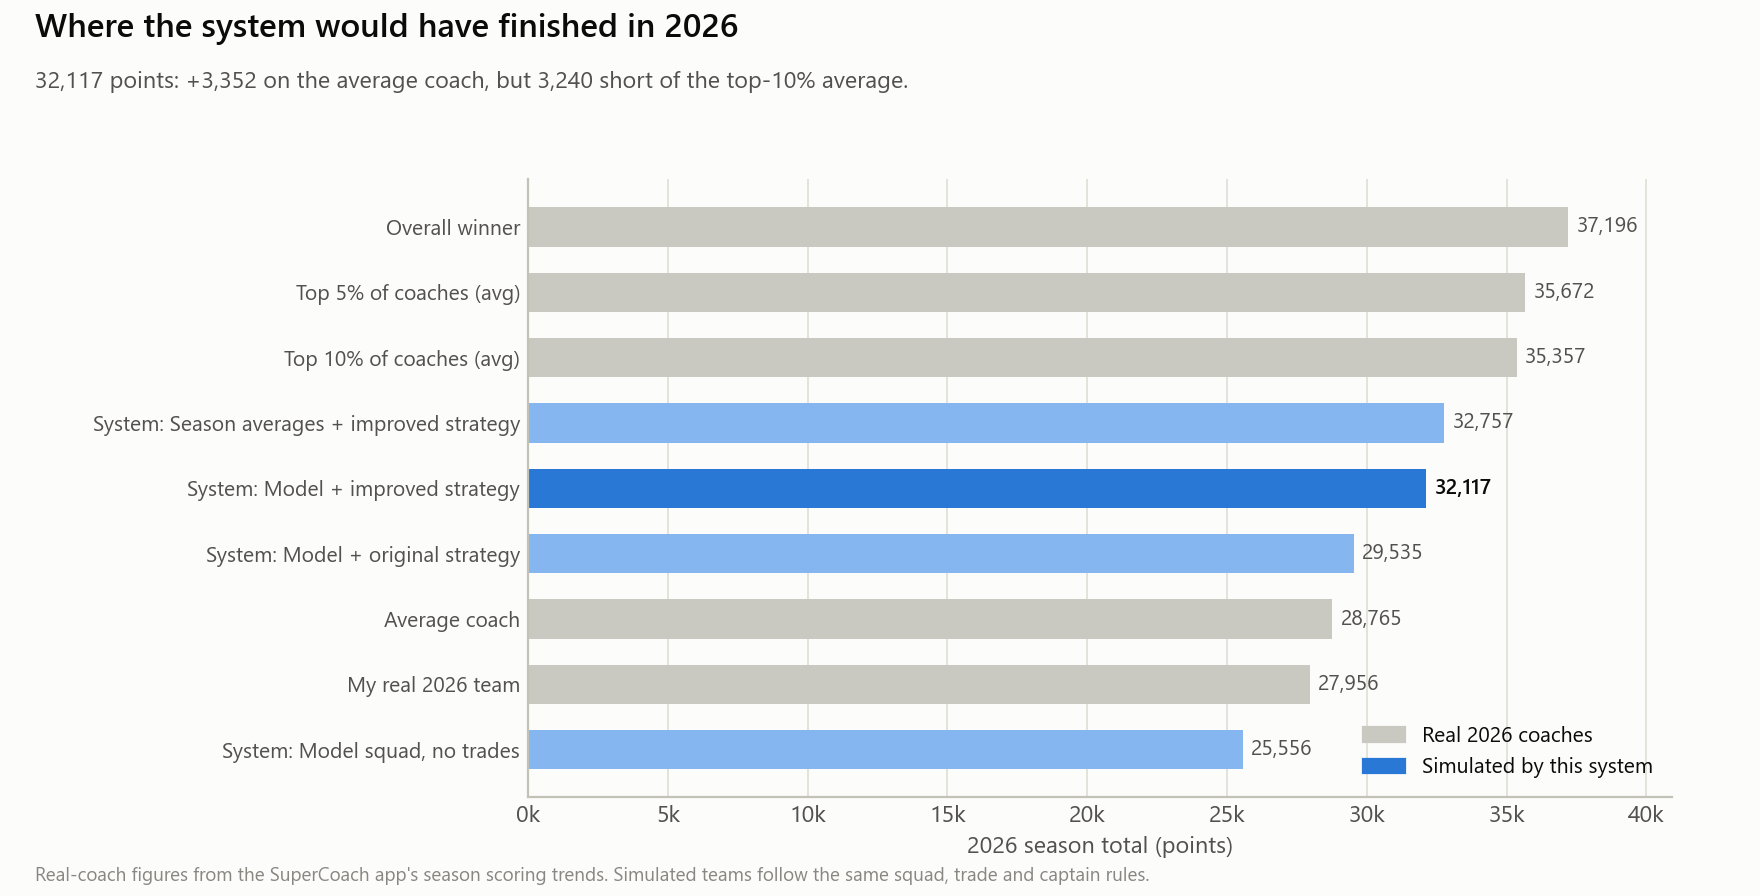
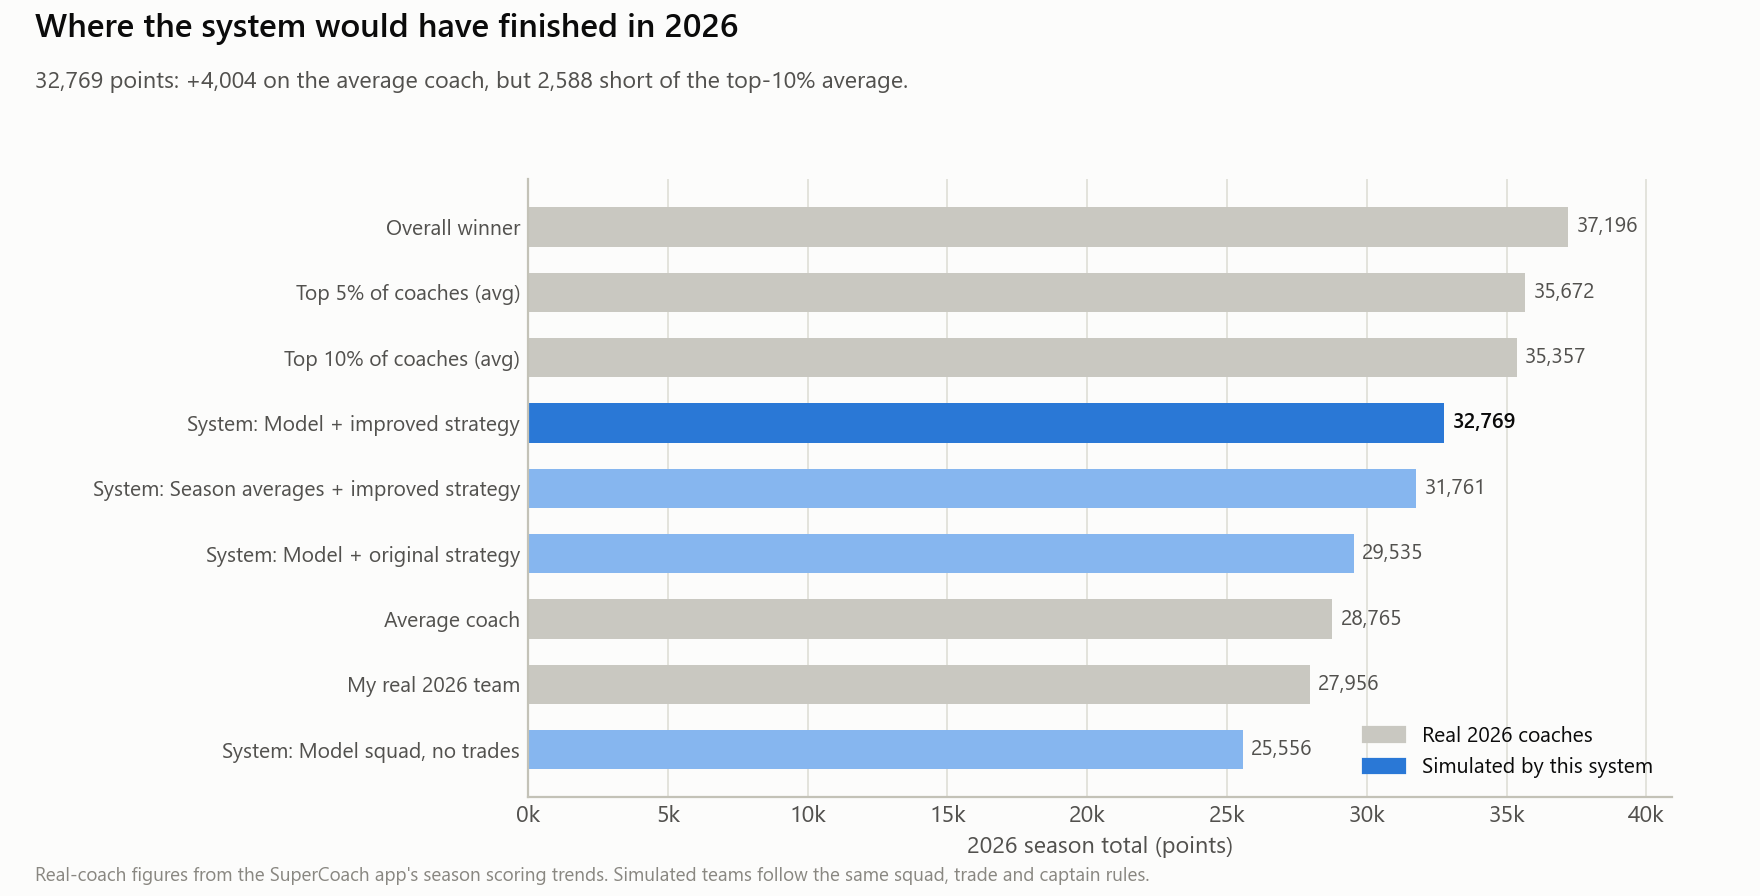
Pace trades so the strategy no longer runs out before the final round
The pace-scaled trade bar never bound (every trade found was worth 75-400
discounted points against a bar of 20-60), so the improved strategy spent
the maximum every round and was out of trades after round 23. It now keeps
1.5 trades (incl. boosts) in hand per round still to play.

The reserve was chosen on the 2024-25 development seasons and checked over
12 perturbed replays (+285 a season, 9/12 wins) before 2026 was re-run:
32,769 points (was 32,117), +4,004 on the average coach. README, charts and
summary updated; the extra look at 2026 is disclosed.

diff --git a/season_sim.py b/season_sim.py
@@ -17,13 +17,15 @@ then trade every week. The replay only uses what was known at the time.
 How trades are chosen is set by a Strategy:
 
   ORIGINAL   compares players one-for-one on predicted points over the next
-             3 rounds, assumes an unnamed player stays out, fixed trade bar.
+             3 rounds, assumes an unnamed player stays out, fixed trade bar,
+             spends trades as soon as they look worthwhile.
   IMPROVED   values the whole squad's best 18 (plus captain) in every
              remaining round, discounted, so depth for bye rounds counts;
              per-round predictions against each upcoming opponent; the
              availability model for who will be named; cash value of the
-             bank and of expected price rises; a trade bar that rises as
-             trades get scarce; no buying back a player just sold.
+             bank and of expected price rises; keeps 1.5 trades in hand per
+             round still to play, so it never runs dry before the last
+             round; no buying back a player just sold.
 
 Strategy parameters are tuned on a development season only (see
 season_review.py), never on the season being reported.
@@ -48,7 +50,6 @@ from scraper import load_fixtures
 log = logging.getLogger(__name__)
 
 LOOKAHEAD = 6            # rounds predicted individually against each opponent
-SEASON_PACE = TOTAL_TRADES / 26
 LINEUP_SLOTS = [(pos, n) for pos, n in ACTIVE_QUOTAS.items()] + [("FLEX", 1)]
 
 
@@ -61,15 +62,15 @@ class Strategy:
     lineup_aware: bool = True      # value the squad's best 18, not players one-for-one
     availability: bool = True      # use the availability model for future rounds
     cash_weight: float = 0.5       # share of cash assumed turned into points later
-    trade_bar: float = 20.0        # points a trade must add at the normal trade pace
-    pace_scaled: bool = True       # raise the bar when trades are scarce
+    trade_bar: float = 20.0        # points a trade must add to be worth making
+    reserve: float = 1.5           # trades (incl. boosts) kept in hand per round still to play
     cooldown: int = 3              # rounds before a sold player can be bought back
     candidates: int = 40           # trades scored in full per decision
 
 
 ORIGINAL = Strategy("Original strategy", horizon=3, discount=1.0, lineup_aware=False,
                     availability=False, cash_weight=0.0, trade_bar=15.0,
-                    pace_scaled=False, cooldown=0)
+                    reserve=0.0, cooldown=0)
 IMPROVED = Strategy("Improved strategy")
 
 
@@ -351,6 +352,14 @@ def initial_squad(inputs: SeasonInputs, strat: Strategy) -> tuple[list[str], flo
     return squad, SALARY_CAP - pick["total_price"]
 
 
+def spendable_trades(strat: Strategy, rnd: int, last_round: int, trades_used: int,
+                     boosts_left: int) -> int:
+    """Trades (and boosts) that can go this round while still keeping
+    `strat.reserve` in hand for every round after it."""
+    keep = int(np.ceil(strat.reserve * (last_round - rnd)))
+    return max(0, TOTAL_TRADES - trades_used + boosts_left - keep)
+
+
 def simulate_season(inputs: SeasonInputs, strat: Strategy, trading: bool = True,
                     label: str | None = None) -> SeasonResult:
     data = inputs.rounds
@@ -369,13 +378,12 @@ def simulate_season(inputs: SeasonInputs, strat: Strategy, trading: bool = True,
         if trading and rnd > 1:
             view = outlook_for(inputs, rnd, strat)
             limit = get_effective_trade_limit(rnd, trades_used)
-            pace = (TOTAL_TRADES - trades_used) / (max(data) - rnd + 1)
-            bar = strat.trade_bar * (min(3.0, SEASON_PACE / max(pace, 1e-6))
-                                     if strat.pace_scaled else 1.0)
+            bar = strat.trade_bar
+            spendable = spendable_trades(strat, rnd, max(data), trades_used, boosts_left)
             banned_in = {p for p, r in sold_in.items() if rnd - r < strat.cooldown}
             locked_out = {p for p, r in bought_in.items()
                           if rnd - r < strat.cooldown and f.at[p, "named"]}
-            while trades_used < TOTAL_TRADES:
+            while trades_used < TOTAL_TRADES and made < spendable:
                 boost = made >= limit                    # at most one boost per round
                 if made > limit or (boost and boosts_left == 0):
                     break

diff --git a/season_review.py b/season_review.py
@@ -9,7 +9,7 @@ season_review.py — the end-of-season retrospective (the project's final run).
   3. Full-season simulations under Supercoach rules (season_sim.py):
        - development seasons 2024 and 2025, where the trading strategy was
          designed and its few settings chosen (models trained on earlier years)
-       - the test season 2026, run once with those settings, and ranked
+       - the test season 2026, never used for tuning, played with those settings and ranked
          against real coaches (data/inputs/human_benchmarks_<year>.yaml)
   4. Players and positions: predicted vs actual per player, position
      analysis, top players, team of the season, bargains.
@@ -135,7 +135,7 @@ def run_review(year: int, scrape: bool = False) -> dict:
     # 3a. Development seasons: where the strategy was designed and tuned.
     dev = {y: replay(rounds, totals, pairs, y)[1] for y in DEV_SEASONS}
 
-    # 3b. The test season, run once.
+    # 3b. The test season, never used for tuning.
     inputs, sims = replay(rounds, totals, pairs, year, predictor)
     best = sims[IMPROVED_LABEL]
     pd.DataFrame({k: s.rounds["points"] for k, s in sims.items()}).to_csv(

diff --git a/tests/test_season_sim.py b/tests/test_season_sim.py
@@ -5,7 +5,7 @@ import pandas as pd
 import pytest
 
 from season_sim import (IMPROVED, ORIGINAL, RoundData, SeasonInputs, best_lineup,
-                        greedy_lineup_value, outlook_for, price_table)
+                        greedy_lineup_value, outlook_for, price_table, spendable_trades)
 
 
 def test_lineup_respects_active_quotas():
@@ -58,3 +58,12 @@ def test_original_strategy_assumes_unnamed_players_stay_out():
     e = outlook_for(_inputs(), 1, ORIGINAL).expected
     assert e.loc["bro", 2] == 50                      # bye now, counted back
     assert e.loc["par", 2] == 0                       # team played, not named: out
+
+
+def test_improved_strategy_keeps_trades_for_the_run_home():
+    # 46 trades + 5 boosts. Round 20 of 27: keep 1.5 x 7 rounds = 11 (rounded up).
+    assert spendable_trades(IMPROVED, 20, 27, trades_used=34, boosts_left=0) == 1
+    assert spendable_trades(IMPROVED, 20, 27, trades_used=36, boosts_left=0) == 0
+    assert spendable_trades(IMPROVED, 27, 27, trades_used=44, boosts_left=0) == 2
+    # The original strategy spends whatever is left.
+    assert spendable_trades(ORIGINAL, 20, 27, trades_used=36, boosts_left=0) == 10

diff --git a/visualise.py b/visualise.py
@@ -736,6 +736,6 @@ def plot_strategy_improvement(by_season: dict, original: str, improved: str,
     wins = all(by_season[y][improved] > by_season[y][original] for y in seasons)
     _titles(fig, "The improved strategy wins in every season" if wins
             else "Improved vs. original strategy, season by season",
-            "Designed and tuned on 2024 and 2025 (models trained on earlier years), then run "
-            f"once on {test_season}, which was never used to choose anything.")
+            "Every setting was tuned on 2024 and 2025 (models trained on earlier years); "
+            f"{test_season} is the held-out test season and was never used for tuning.")
     _save(fig, path)

diff --git a/README.md b/README.md
@@ -21,12 +21,12 @@ I ran it live during the 2026 season. This repository is the final version: the 
 
 | | |
 |---|---|
-| **Full 2026 season, game rules** | **32,117 points**, an average of 1,190 a round. That's 2,582 more than the original trading strategy and 6,561 more than never trading |
-| **Against real coaches** | Beats the **average 2026 coach by 3,352** and my own real team by 4,161. It finishes 3,240 short of the top-10% average (35,357); the winner scored 37,196 |
-| **Honest testing** | The strategy was designed and tuned on the 2024 and 2025 seasons only; 2026 was run once. The improved strategy wins in all three seasons |
+| **Full 2026 season, game rules** | **32,769 points**, an average of 1,214 a round. That's 3,234 more than the original trading strategy and 7,213 more than never trading |
+| **Against real coaches** | Beats the **average 2026 coach by 4,004** and my own real team by 4,813. It finishes 2,588 short of the top-10% average (35,357); the winner scored 37,196 |
+| **Honest testing** | Every strategy setting was tuned on the 2024 and 2025 seasons only; 2026 is held out as the test season. The improved strategy wins in all three seasons |
 | **Points predictor** | Trained on 2022–2025, then predicted all **6,407 games of 2026** before each was played. Average error was **16.97 pts per game**, vs 18.08 for the season-average heuristic, and R² rose from 0.15 to 0.24 |
 | **Supporting models** | Availability (will the player be named?) AUC **0.89**; a 3-game price-change forecast |
-| **Engineering** | Leak-proof features, Wide & Deep network, gradient-boosted trees, CBC integer programs, 50 unit tests, GitHub Actions CI |
+| **Engineering** | Leak-proof features, Wide & Deep network, gradient-boosted trees, CBC integer programs, 51 unit tests, GitHub Actions CI |
 
 ## How it works
 
@@ -76,9 +76,10 @@ The first version judged trades one player at a time, on predicted points over t
 - **Values the whole squad.** It computes the squad's best 18 plus captain in every future round, so depth for bye rounds and injuries counts automatically.
 - **Knows who will play.** The availability model replaces "if they weren't named, assume they're out".
 - **Values cash.** Money freed up and expected price rises count as future points.
+- **Paces its trades.** It keeps 1.5 trades in hand for every round still to play, so injuries and late-season rests can still be covered in the final rounds. The first version spent every trade as soon as it looked worthwhile and was out of trades after round 23.
 - **Stops churn.** No buying back a player sold in the last 3 rounds.
 
-To avoid fitting the season being reported, **every design choice and setting was made on the 2024 and 2025 seasons**, with all models trained only on earlier years. 2026 was then run once:
+To avoid fitting the season being reported, **every design choice and setting was made on the 2024 and 2025 seasons**, with all models trained only on earlier years. 2026 is held out as the test season:
 
 ![Improved vs original strategy by season](docs/images/strategy_improvement.png)
 
@@ -86,16 +87,21 @@ What each part contributes, averaged over the two development seasons (2026 not 
 
 | Change, starting from the improved strategy | Average season | Effect |
 |---|---:|---:|
-| Improved strategy | 30,907 | |
-| Only look 3 rounds ahead | 21,929 | −8,978 |
-| Value trades one player at a time instead of the whole squad | 28,709 | −2,198 |
-| Ignore cash and price rises | 30,270 | −637 |
-| Allow immediate buy-backs | 30,825 | −82 |
-| Drop the availability model | 31,416 | +509 |
+| Improved strategy | 31,312 | |
+| Only look 3 rounds ahead | 22,303 | −9,008 |
+| Value trades one player at a time instead of the whole squad | 28,574 | −2,738 |
+| Ignore cash and price rises | 29,382 | −1,930 |
+| Spend trades as soon as they look worthwhile (no reserve) | 30,907 | −404 |
+| Allow immediate buy-backs | 30,922 | −390 |
+| Drop the availability model | 31,451 | +140 |
 
-Looking ahead and valuing the whole squad do the heavy lifting. The availability model is accurate (AUC 0.89), but its effect on season totals was mixed: it helped in 2025 and hurt in 2024. I kept it because it's the principled approach, and report the result rather than switching it off after seeing 2026.
+Looking ahead, valuing the whole squad and valuing cash do the heavy lifting. One different trade changes everything after it, so a single replay moves by a few hundred points from small changes. Effects under about 500 are within that noise.
 
-The team-value chart shows the strategy now buys premiums. 13 of its 51 trades bought a $650K+ player, against 7 for the original strategy.
+**Pacing trades is a trade-off, not a free win.** To check the reserve was real and not luck, I replayed each development season 6 times with small changes to the strategy. Keeping trades in hand added about 430 points a season over the last five rounds and removed the empty spots there. It cost about 150 in rounds 12–22, when trades were rationed. Overall it gained about 285 a season and beat spending freely in 9 of the 12 replays. Smaller reserves (0.5–1.25 trades a round) did slightly worse than no reserve. I only looked at trade pacing after spotting in the 2026 log that trades ran out in round 23. The setting itself was chosen on 2024–25, and 2026 was then re-run.
+
+The availability model is accurate (AUC 0.89), but its effect on season totals was mixed: it helped in 2025 and hurt in 2024. I kept it because it's the principled approach, and report the result rather than switching it off after seeing 2026.
+
+The team-value chart shows the strategy now buys premiums. 15 of its 51 trades bought a $650K+ player, against 7 for the original strategy, and trades are spread evenly to the final round.
 
 ![Team value over the season](docs/images/season_team_value.png)
 
@@ -105,13 +111,12 @@ Every trade is logged in [`season_simulation_trades.csv`](outputs/season_review/
 
 ![Against real coaches](docs/images/human_comparison.png)
 
-The real-coach figures come from the SuperCoach app's end-of-season scoring trends. The simulated team beats the average coach by 3,352 points; the original strategy beat them by 770. It is 3,240 short of the top-10% average, about 120 points a round:
+The real-coach figures come from the SuperCoach app's end-of-season scoring trends. The simulated team beats the average coach by 4,004 points; the original strategy beat them by 770. It is 2,588 short of the top-10% average, about 95 points a round:
 
-- **Bye rounds, about 700 points.** It scored 2,924 across rounds 12, 15 and 18, against a normal 1,216 a round.
-- **Trades ran out in round 23, about 700.** The last four rounds averaged 1,043.
-- **The rest, about 1,800:** stronger squads and sharper captaincy from the best coaches.
+- **Bye rounds, about 1,000 points.** It scored 2,765 across rounds 12, 15 and 18, against a normal 1,250 a round. Keeping trades in reserve leaves fewer to patch the bye rounds, which is part of the price of pacing.
+- **The rest, about 1,600:** stronger squads and sharper captaincy from the best coaches.
 
-**An honest caveat.** In 2026, the same improved strategy driven by plain season averages (instead of the model's predictions) scored 32,757, slightly ahead of the model's 32,117. In both development seasons the model won clearly (by 2,766 and 3,297). Across all three seasons the model leads by 5,423 points. A single season is a noisy test.
+**Does the model matter, or just the strategy?** The same improved strategy run on plain season averages, instead of the model's predictions, scored 31,761 in 2026, 1,008 behind. The model also won both development seasons, by 3,669 and 3,027. In an earlier version, without the trade reserve, season averages edged the model in 2026 alone. A single season is a noisy test, which is why all three are reported.
 
 ## 2. Is the points predictor any good?
 
@@ -161,8 +166,9 @@ Below, the bargains: the players whose output was far above what their price imp
 ## What I learned
 
 - **My first model was cheating, and catching it was the most valuable part of the project.** It predicted a player's season average from stats that included the five scoring components of that same average (base, attack, create, evade, negative). Those components add up to the answer, so it showed R² = 0.98 without forecasting anything. I rebuilt it as a strict "past games → next game" problem. R² dropped to an honest 0.24, but that model holds up on games it has never seen.
-- **Strategy mattered more than prediction accuracy.** With the same predictions, looking to the end of the season and valuing the whole squad's lineup added about 2,600 points in 2026. Every tweak to the predictor itself moved error by less than 0.1 points.
-- **Keep a test set you never touch.** Strategy settings were chosen on 2024–2025 and 2026 was run once. That's why the 2026 result can be trusted, and why the one surprise (season averages edging the model in 2026) is reported rather than tuned away.
+- **Strategy mattered more than prediction accuracy.** With the same predictions, the rebuilt trading strategy added about 3,200 points in 2026. Every tweak to the predictor itself moved error by less than 0.1 points.
+- **Keep a test set you never touch.** Strategy settings were chosen on 2024–2025, never on 2026. When the 2026 log showed a flaw (trades running out in round 23), the fix was designed and tuned on 2024–25 before 2026 was re-run. That one extra look at 2026 is disclosed rather than hidden.
+- **Replays of a season are noisy.** One different trade changes everything after it, so I check that an improvement holds across perturbed replays before trusting it.
 - **On noisy tabular data a linear model is a serious baseline.** A plain neural network lost to ridge regression; Wide & Deep matched it, and averaging the two was best.
 - **The market is efficient pre-season.** Before round 1, the model and Supercoach's own prices rank players equally well against final averages (r = 0.63 each). The edge comes in-season, once real form data arrives.
 
@@ -174,7 +180,7 @@ pip install -r requirements.txt
 python season_review.py     # the final run: benchmarks, 2024-26 season replays, all charts, retrains the model
 python main.py --round 10   # replay any round: predictions + optimal squad (+ --plan for byes)
 python trade_advisor.py --round 9 --no-scrape   # trade advice for the squad in data/inputs/round_9.yaml
-python -m pytest -q         # 50 tests, no TensorFlow needed
+python -m pytest -q         # 51 tests, no TensorFlow needed
 ```
 
 ## Repository layout
@@ -198,7 +204,7 @@ python -m pytest -q         # 50 tests, no TensorFlow needed
 │   ├── season_review/  # simulation logs, predictions, benchmarks, summary.json
 │   └── live_2026/      # what the system produced live during the 2026 season
 ├── docs/images/        # figures in this README
-└── tests/              # 50 pytest tests (leakage, simulator, availability, optimizer, trades)
+└── tests/              # 51 pytest tests (leakage, simulator, availability, optimizer, trades)
 ```
 
 During the season, a scheduled GitHub Actions workflow ran the pipeline every Wednesday and published the squad and trade advice. It has been retired now the season is over, and CI runs the test suite on every push instead.
